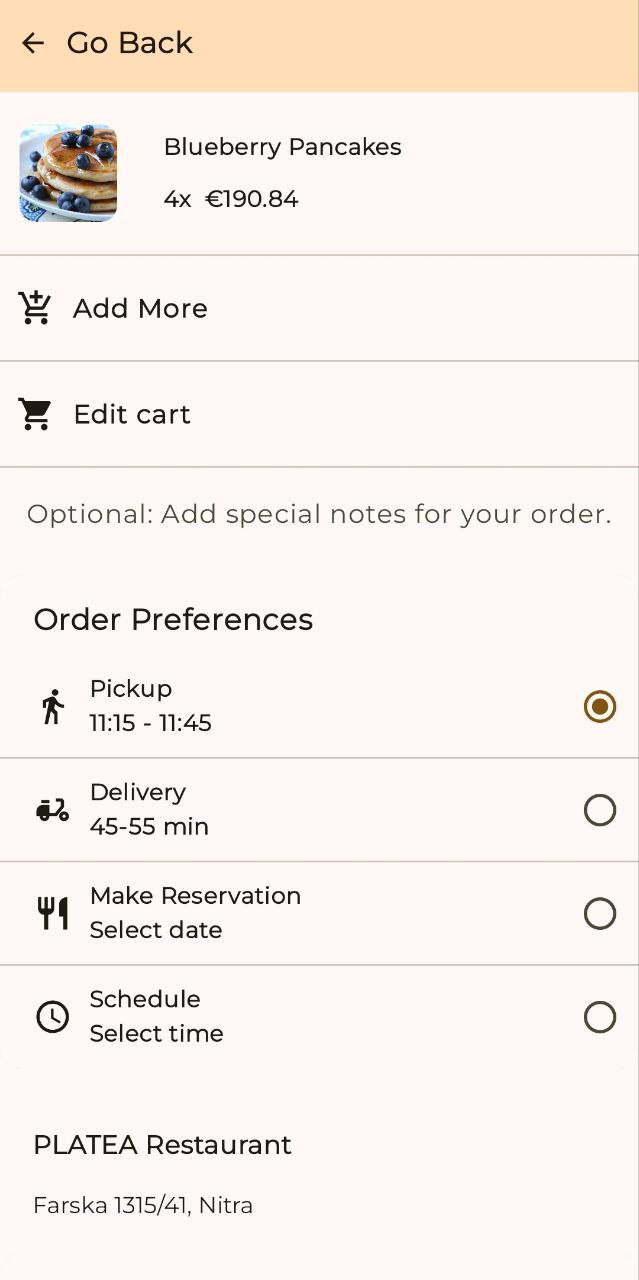
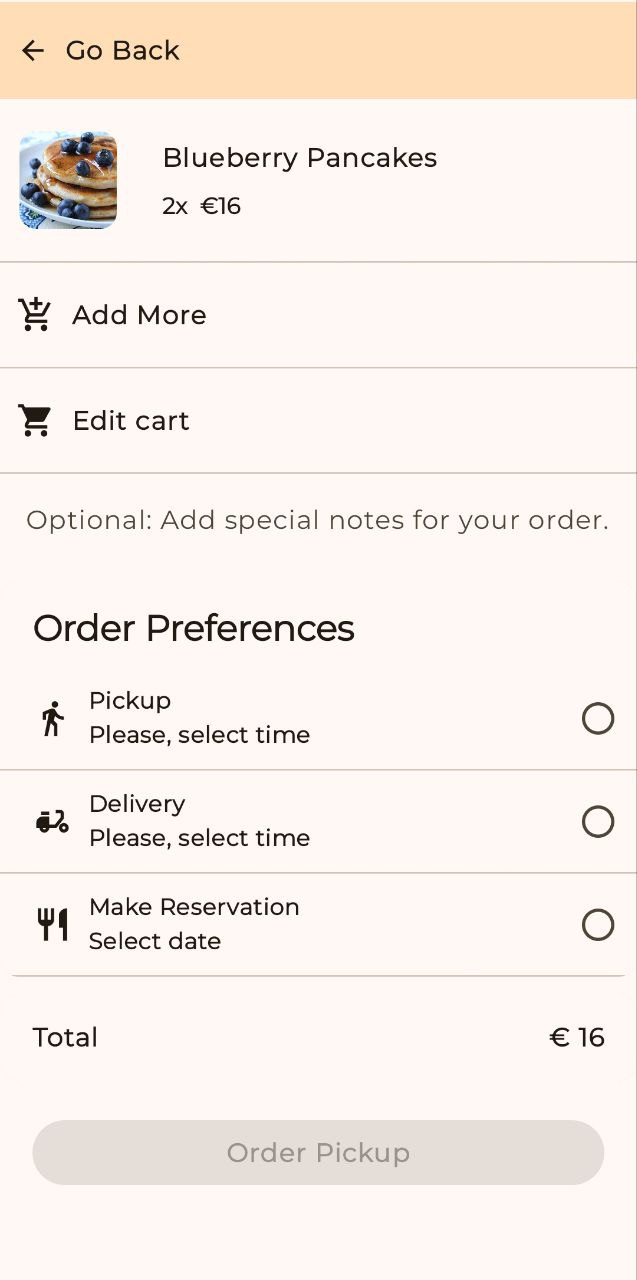
minor + updated screenshots

diff --git a/mobile/app/src/main/java/com/yehorsk/platea/core/presentation/MainScreenGraph.kt b/mobile/app/src/main/java/com/yehorsk/platea/core/presentation/MainScreenGraph.kt
@@ -2,6 +2,8 @@ package com.yehorsk.platea.core.presentation
 
 import androidx.compose.foundation.layout.RowScope
 import androidx.compose.foundation.layout.padding
+import androidx.compose.material3.Badge
+import androidx.compose.material3.BadgedBox
 import androidx.compose.material3.Icon
 import androidx.compose.material3.MaterialTheme
 import androidx.compose.material3.NavigationBar
@@ -11,13 +13,17 @@ import androidx.compose.material3.SnackbarDuration
 import androidx.compose.material3.SnackbarHost
 import androidx.compose.material3.SnackbarHostState
 import androidx.compose.material3.SnackbarResult
+import androidx.compose.material3.Text
 import androidx.compose.runtime.Composable
 import androidx.compose.runtime.getValue
 import androidx.compose.runtime.remember
 import androidx.compose.runtime.rememberCoroutineScope
 import androidx.compose.ui.Modifier
+import androidx.compose.ui.graphics.Color
 import androidx.compose.ui.platform.LocalContext
 import androidx.compose.ui.res.stringResource
+import androidx.hilt.navigation.compose.hiltViewModel
+import androidx.lifecycle.compose.collectAsStateWithLifecycle
 import androidx.navigation.NavDestination
 import androidx.navigation.NavDestination.Companion.hierarchy
 import androidx.navigation.NavGraph.Companion.findStartDestination
@@ -40,9 +46,13 @@ import kotlinx.coroutines.launch
 @Composable
 fun MainScreenGraph(
     navController: NavHostController = rememberNavController(),
+    mainScreenViewModel: MainScreenViewModel = hiltViewModel(),
     userRoles: UserRoles,
     onLoggedOut:() -> Unit
 ){
+
+    val uiState by mainScreenViewModel.cartItemCount.collectAsStateWithLifecycle()
+
     val snackbarHostState = remember {
         SnackbarHostState()
     }
@@ -70,7 +80,8 @@ fun MainScreenGraph(
         bottomBar = {
             BottomBar(
                 navController = navController,
-                userRoles = userRoles
+                userRoles = userRoles,
+                cartItems = uiState
             )
         },
         snackbarHost = {
@@ -115,7 +126,8 @@ fun MainScreenGraph(
 @Composable
 fun BottomBar(
     navController: NavHostController,
-    userRoles: UserRoles
+    userRoles: UserRoles,
+    cartItems: Int
 ){
     var screens = getUserBarItems(userRoles)
 
@@ -130,7 +142,8 @@ fun BottomBar(
                 AddItem(
                     screen = screen,
                     currentDestination = currentDestination,
-                    navController = navController
+                    navController = navController,
+                    cartItems = cartItems
                 )
             }
         }
@@ -141,7 +154,8 @@ fun BottomBar(
 fun RowScope.AddItem(
     screen: BottomBarScreen,
     currentDestination: NavDestination?,
-    navController: NavHostController
+    navController: NavHostController,
+    cartItems: Int
 ){
     val isSelected = currentDestination?.hierarchy?.any {
         it.route == screen.route
@@ -154,10 +168,30 @@ fun RowScope.AddItem(
             )
         },
         icon = {
-            if(isSelected){
-                Icon(imageVector = screen.selectedIcon, contentDescription = stringResource(screen.title))
+            if(cartItems > 0 && screen === BottomBarScreen.Cart){
+                BadgedBox(
+                    badge = {
+                        Badge(
+                            containerColor = MaterialTheme.colorScheme.tertiary,
+                            contentColor = Color.White
+                        ){
+                            Text(
+                                text = cartItems.toString(),
+                                style = MaterialTheme.typography.labelSmall
+                            )
+                        }
+                    }
+                ) {
+                    Icon(
+                        imageVector = if (isSelected) screen.selectedIcon else screen.unselectedIcon,
+                        contentDescription = stringResource(screen.title)
+                    )
+                }
             }else{
-                Icon(imageVector = screen.unselectedIcon, contentDescription = stringResource(screen.title))
+                Icon(
+                    imageVector = if (isSelected) screen.selectedIcon else screen.unselectedIcon,
+                    contentDescription = stringResource(screen.title)
+                )
             }
         },
         selected = isSelected,

diff --git a/mobile/app/src/main/java/com/yehorsk/platea/orders/presentation/create_order/components/OrderOptions.kt b/mobile/app/src/main/java/com/yehorsk/platea/orders/presentation/create_order/components/OrderOptions.kt
@@ -56,8 +56,8 @@ fun OrderOptions(
 
 
     val options = listOf<OrderOption>(
-        OrderOption(id = 0, icon = Icons.Filled.DirectionsWalk, text = R.string.pickup_option, subText = R.string.pickup_time),
-        OrderOption(id = 1, icon = Icons.Filled.DeliveryDining, text = R.string.delivery_option, subText = R.string.delivery_time),
+        OrderOption(id = 0, icon = Icons.Filled.DirectionsWalk, text = R.string.pickup_option, subText = R.string.empty),
+        OrderOption(id = 1, icon = Icons.Filled.DeliveryDining, text = R.string.delivery_option, subText = R.string.empty),
         OrderOption(id = 2, icon = Icons.Filled.Restaurant, text = R.string.reservation_option, subText = R.string.select_date),
 //        OrderOption(id = 3, icon = Icons.Filled.Schedule, text = R.string.schedule, subText = R.string.select_time),
     )

diff --git a/mobile/app/src/main/java/com/yehorsk/platea/core/presentation/MainScreenViewModel.kt b/mobile/app/src/main/java/com/yehorsk/platea/core/presentation/MainScreenViewModel.kt
@@ -1,0 +1,24 @@
+package com.yehorsk.platea.core.presentation
+
+import androidx.lifecycle.ViewModel
+import androidx.lifecycle.viewModelScope
+import com.yehorsk.platea.cart.data.dao.CartDao
+import dagger.hilt.android.lifecycle.HiltViewModel
+import kotlinx.coroutines.flow.SharingStarted
+import kotlinx.coroutines.flow.StateFlow
+import javax.inject.Inject
+import kotlinx.coroutines.flow.stateIn
+
+
+@HiltViewModel
+class MainScreenViewModel @Inject constructor(
+    cartDao: CartDao
+) : ViewModel() {
+
+    val cartItemCount: StateFlow<Int> = cartDao.getAmountOfItems()
+        .stateIn(
+            viewModelScope,
+            SharingStarted.Lazily,
+            0
+        )
+}

diff --git a/mobile/app/src/main/java/com/yehorsk/platea/core/presentation/BottomBarScreen.kt b/mobile/app/src/main/java/com/yehorsk/platea/core/presentation/BottomBarScreen.kt
@@ -21,7 +21,9 @@ sealed class BottomBarScreen(
     val route: String,
     @StringRes val title: Int,
     val selectedIcon: ImageVector,
-    val unselectedIcon: ImageVector
+    val unselectedIcon: ImageVector,
+    val showBadge: Boolean = false,
+    val badgeCount: Int = 0
 ) {
     object Home : BottomBarScreen(
         route = "HOME",
@@ -34,7 +36,8 @@ sealed class BottomBarScreen(
         route = "CART",
         title = R.string.cart_item,
         selectedIcon = Icons.Filled.ShoppingCart,
-        unselectedIcon = Icons.Outlined.ShoppingCart
+        unselectedIcon = Icons.Outlined.ShoppingCart,
+        showBadge = true
     )
 
     object Orders : BottomBarScreen(

diff --git a/mobile/app/src/main/java/com/yehorsk/platea/orders/presentation/create_order/components/ChooseTimeModal.kt b/mobile/app/src/main/java/com/yehorsk/platea/orders/presentation/create_order/components/ChooseTimeModal.kt
@@ -96,7 +96,8 @@ fun ChooseTimeModalContent(
         LocalDate.now(),
         LocalDate.now().plusDays(1),
         LocalDate.now().plusDays(2),
-        LocalDate.now().plusDays(3)
+        LocalDate.now().plusDays(3),
+        LocalDate.now().plusDays(4),
     ).map { date ->
         val dateString = date.toString()
         val dayName = getDayName(dateString)

diff --git a/mobile/app/src/main/java/com/yehorsk/platea/cart/data/dao/CartDao.kt b/mobile/app/src/main/java/com/yehorsk/platea/cart/data/dao/CartDao.kt
@@ -20,6 +20,9 @@ interface CartDao {
     @Query("SELECT * FROM cart_table")
     suspend fun getAllItemsOnce(): List<CartItemEntity>
 
+    @Query("SELECT COUNT(*) FROM cart_table")
+    fun getAmountOfItems(): Flow<Int>
+
     @Delete
     suspend fun deleteItem(item: CartItemEntity)
 

diff --git a/mobile/app/src/main/java/com/yehorsk/platea/core/data/db/MainRoomDatabase.kt b/mobile/app/src/main/java/com/yehorsk/platea/core/data/db/MainRoomDatabase.kt
@@ -25,7 +25,7 @@ import com.yehorsk.platea.reservations.data.db.model.ReservationEntity
         ReservationEntity::class,
         RestaurantInfoEntity::class
     ],
-    version = 1
+    version = 2
 )
 abstract class MainRoomDatabase : RoomDatabase() {
 

diff --git a/mobile/app/src/main/java/com/yehorsk/platea/core/di/AppModule.kt b/mobile/app/src/main/java/com/yehorsk/platea/core/di/AppModule.kt
@@ -72,7 +72,7 @@ object AppModule {
             application,
             MainRoomDatabase::class.java,
             "MobileDatabase"
-        ).build()
+        ).fallbackToDestructiveMigration().build()
     }
 
     @Provides

diff --git a/backend/app/Http/Controllers/ReservationController.php b/backend/app/Http/Controllers/ReservationController.php
@@ -25,7 +25,7 @@ class ReservationController extends Controller
             $data_stats = Reservation::selectRaw('COUNT(*) AS amount, MONTHNAME(created_at) AS month_name, MONTH(created_at) AS month_number')
                 ->whereYear('created_at', $year)
                 ->groupByRaw('MONTHNAME(created_at), MONTH(created_at)')
-                ->orderByRaw('month_number DESC')
+                ->orderBy('month_number', 'ASC')
                 ->pluck('amount');
             $years = Order::selectRaw('YEAR(created_at) as year')
                 ->groupBy('year')
@@ -34,7 +34,7 @@ class ReservationController extends Controller
             $months = Order::selectRaw('MONTHNAME(created_at) as month, MONTH(created_at) as month_number')
                 ->whereYear('created_at', $year)
                 ->groupByRaw('MONTHNAME(created_at), MONTH(created_at)')
-                ->orderByRaw('month_number DESC')
+                ->orderBy('month_number', 'ASC')
                 ->pluck('month');
             return $this->success([
                 'data_today' => $data_today->count(),

diff --git a/backend/app/Http/Controllers/OrderController.php b/backend/app/Http/Controllers/OrderController.php
@@ -22,7 +22,7 @@ class OrderController extends Controller
             $data_stats = Order::selectRaw('SUM(price) as total_price, MONTHNAME(created_at) AS month_name, MONTH(created_at) AS month_number')
                 ->whereYear('created_at', $year)
                 ->groupByRaw('MONTHNAME(created_at), MONTH(created_at)')
-                ->orderByRaw('month_number DESC')
+                ->orderBy('month_number', 'ASC')
                 ->pluck('total_price');
 
             $years = Order::selectRaw('YEAR(created_at) as year')
@@ -33,7 +33,7 @@ class OrderController extends Controller
             $months = Order::selectRaw('MONTHNAME(created_at) as month, MONTH(created_at) as month_number')
                 ->whereYear('created_at', $year)
                 ->groupByRaw('MONTHNAME(created_at), MONTH(created_at)')
-                ->orderByRaw('month_number DESC')
+                ->orderBy('month_number', 'ASC')
                 ->pluck('month');
 
             return $this->success([

diff --git a/backend/app/Http/Controllers/AuthController.php b/backend/app/Http/Controllers/AuthController.php
@@ -118,7 +118,9 @@ class AuthController extends Controller
     }
 
     public function logout(Request $request){
+        $user = auth('sanctum')->user();
         Auth::user()->currentAccessToken()->delete();
+        $user->devices->each->delete();
         return $this->success(data: [], message: __("messages.logged_out_successfully"));
     }
     public function reset_password($token,$email) {
@@ -191,6 +193,7 @@ class AuthController extends Controller
 
     public function deleteAccount(Request $request){
         $user = auth('sanctum')->user();
+        $user->devices->each->delete();
         if($user instanceof User){
             $user->delete();
             return $this->success([""], __("messages.account_deleted_successfully"));
